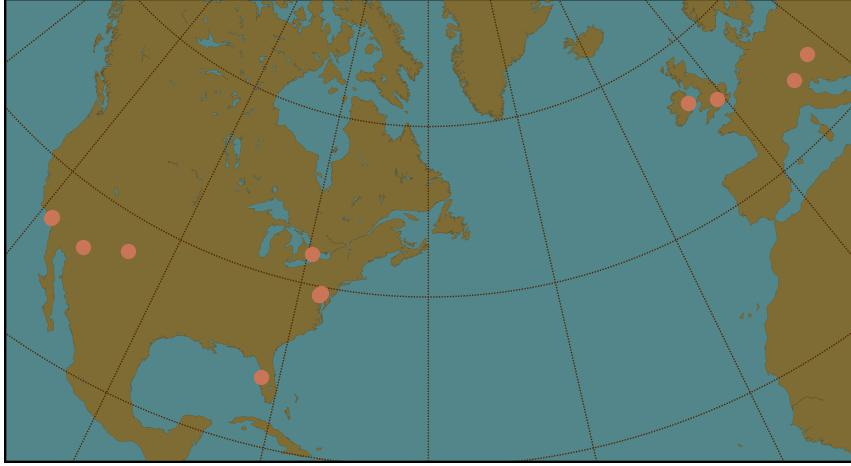
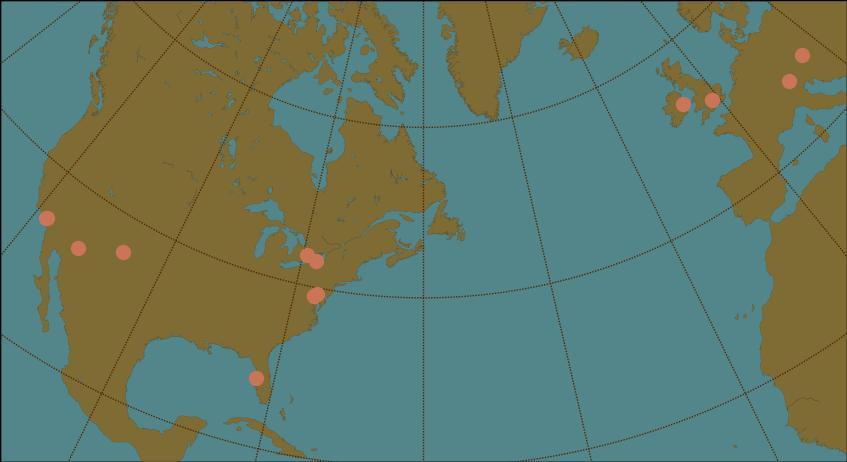
Move Garcia-Pintos to Alumni; Add Rochester to map

diff --git a/content/authors/Garcia-Pintos/_index.md b/content/authors/Garcia-Pintos/_index.md
@@ -71,6 +71,6 @@ social:
 # Organizational groups that you belong to (for People widget)
 #   Set this to `[]` or comment out if you are not using People widget.
 user_groups:
-  - Senior Personnel
+  - Alumni
 ---
 
